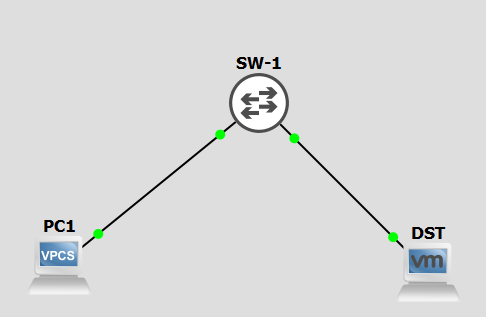
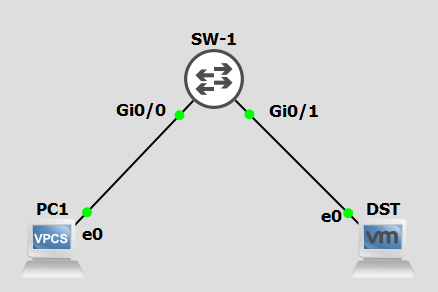
update
update

diff --git a/docs/Security Onion/Port mirroring.md b/docs/Security Onion/Port mirroring.md
@@ -10,7 +10,7 @@ Lors de l'utilisation d'un NSM obtenir tous les échanges réseaux d'un SI est g
 
 Ressource :
 
-* [https://blog.ine.com/utilizing-span-and-rspan](https://blog.ine.com/utilizing-span-and-rspan)
+* [https://cisco.goffinet.org/ccna/filtrage/csco-switchport-analyzer-span/](https://cisco.goffinet.org/ccna/filtrage/csco-switchport-analyzer-span/)
 
 ---
 
@@ -22,7 +22,7 @@ Le trafic d'un ou des ports est redirigé sur un port du switch.
 ### 1.1 Le laboratoire :
 ![img](../images/SO/Port-mirroring/lab-1.png)
 <div align="center">
-	<i><b>Illustration 1 :</b> Laboratoire 1</i>
+	<i><b>Illustration 1 :</b> Laboratoire 1.</i>
 </div>
 
 Script de configuration initial de SW-1 :
@@ -35,10 +35,21 @@ SW-1(config)# do wr mem
 ---
 
 ### 1.2 Mise en oeuvre :
+Malheuresement le SPAN et le RSPAN n'est pas implémenté dans mes images IOS dans GNS : [https://learningnetwork.cisco.com/s/article/iosvl2-more-info-updated-10-2-15-x](https://learningnetwork.cisco.com/s/article/iosvl2-more-info-updated-10-2-15-x).
 
----
+Mais pour réaliser du SPAN c'est très simple :
 
-### 1.3 Recopier les protocoles couche 2 :
+* Interface GigabitEthernet 0/0 = interface source,
+* Interface GigabitEthernet 0/1 = interface destination,
+
+Sur le switch :
+````text
+SW-1(config)# monitor session 1source interface GigabitEthernet 0/0 
+SW-1(config)# monitor session 1source destination GigabitEthernet 0/1 encapsulation replicate
+```` 
+
+Note, l'option **encapsulation replicate** dans la seconde commande permet d'inclure les protocoles CDP, DTP, STP, VTP...
+
 
 ---
 
@@ -56,19 +67,64 @@ Script de configuration initial de SW-2 :
 ````text
 Switch# configuration terminal
 Switch(config)# hostname SW-2
-SW-1(config)# do wr mem
+SW-2(config)# do wr mem
 ````
 
 ---
 
 ### 2.1 Le laboratoire :
+![img](../images/SO/Port-mirroring/lab-2.png)
+<div align="center">
+	<i><b>Illustration 2 :</b> Laboratoire 2.</i>
+</div>
 
 ---
 
 ### 2.2 Mise en oeuvre :
+Malheuresement le SPAN et le RSPAN n'est pas implémenté dans mes images IOS dans GNS : [https://learningnetwork.cisco.com/s/article/iosvl2-more-info-updated-10-2-15-x](https://learningnetwork.cisco.com/s/article/iosvl2-more-info-updated-10-2-15-x).
+
+Mais pour réaliser du SPAN :
+Sur SW-1 :
+
+* Interface GigabitEthernet 0/0 = interface source,
+* VLAN 199 = interface destination,
+
+Sur SW-2 :
+* VLAN 199 = interface source,
+* Interface GigabitEthernet 0/0 = interface destination,
+
+Le VLAN 199 transite via le le trunk entre SW-1 et SW-2 sur GigabitEthernet0/0.
+
+Sur le switch SW-1 :
+````text
+SW-1(config)# vlan 199
+SW-1(config-vlan)# name SPAN
+SW-1(config-vlan)# remote span
+SW-1(config-vlan)# exit
+SW-1(config)# monitor session 1 source interface GigabitEthernet0/0 
+SW-1(config)# monitor session 1 destination remote vlan 199 encapsulation replicate
+SW-1(config)# interface GigabitEthernet3/3
+SW-1(config-if)# switchport trunk encapsulation dot1q
+SW-1(config-if)# switchport mode trunk
+SW-1(config-if)# switchport trunk allowed vlan 199
+```` 
+
+Sur le switch SW-2 :
+````text
+SW-2(config)# vlan 199
+SW-2(config-vlan)# name SPAN
+SW-2(config-vlan)# remote span
+SW-2(config-vlan)# exit
+SW-2(config)# monitor session 2 source remote vlan 199
+SW-2(config)# monitor session 2 destination interface GigabitEthernet 0/0 encapsulation replicate
+SW-2(config)# interface GigabitEthernet3/3
+SW-2(config-if)# switchport trunk encapsulation dot1q
+SW-2(config-if)# switchport mode trunk
+SW-2(config-if)# switchport trunk allowed vlan 199
+```` 
+
+Note, l'option **encapsulation replicate** dans la seconde commande permet d'inclure les protocoles CDP, DTP, STP, VTP...
+
 
 ---
 
-### 2.3 Recopier les protocoles couche 2 :
-
----
